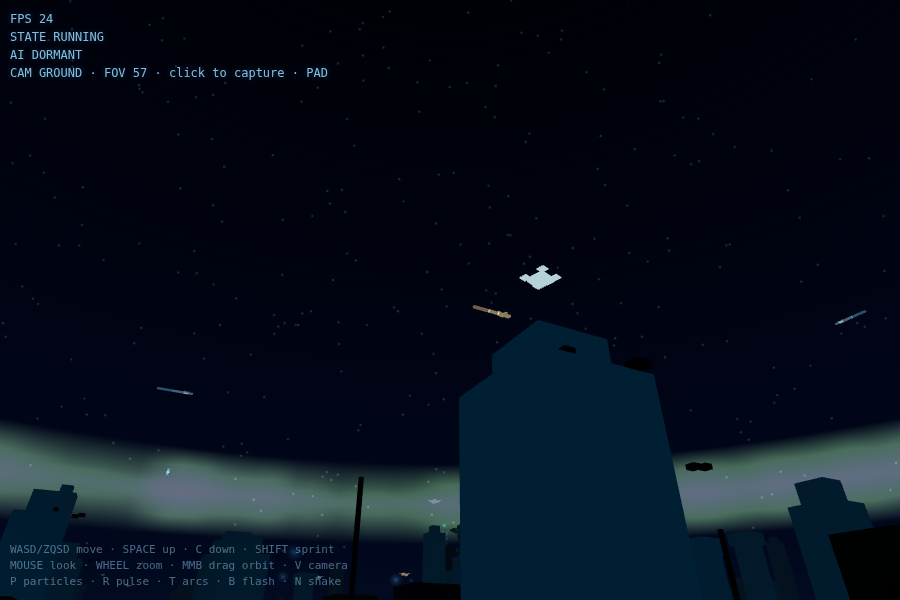
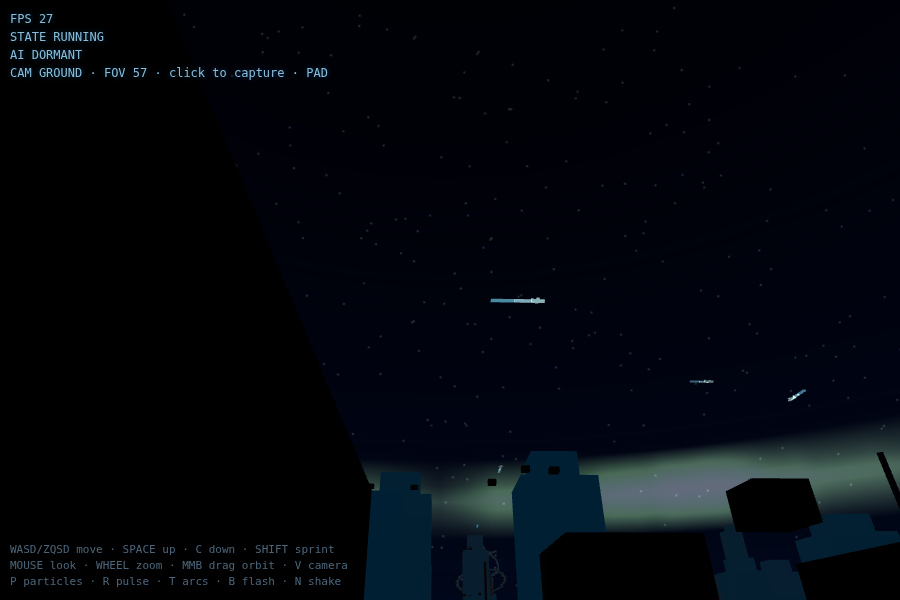
M8.2: fog depth tune + zone-tinted haze — tuned FogExp2 density (readable at 500 m) + fog color lerp cyan core → warm outer avenues (ATMOS, pre-allocated, dome horizon sync, heap flat)

diff --git a/index.html b/index.html
@@ -192,8 +192,7 @@ const CFG = {
   bootWatchdogMs: 15000,
   color: {
     void: 0x05070d,        // M0/M1 empty-void background
-    fog: 0x060a14,
-    fogDensity: 0.004,
+    fog: 0x060a14,        // initial haze (ATMOS re-tints it per zone, M8.2)
   },
   input: {
     lookSens: 0.0022,          // radians per mouse pixel
@@ -433,6 +432,23 @@ const CFG = {
       opacity: 0.45,        // faint (texture alpha fades it further)
       spin: 0.012,           // rad/s — slow drift
     },
+
+    /* ---- M8.2: fog depth tune + zone-tinted haze ----
+     * density: tuned down from 0.004 — at 500 m the FogExp2 factor is
+     *   ≈ 0.86, so distant structures survive as readable silhouettes
+     *   (the old 0.004 swallowed 98 % at 500 m: the void took over).
+     * zone: the haze color lerps (smoothstep) by camera distance from
+     *   the central plaza across the M3 zone boundaries (core < 220 m
+     *   / mid < 520 m): cyan in the core, warm in the outer avenues.
+     * domeTint: subtle sync of the dome horizon tint so sky and haze
+     *   never disagree (material color multiplies the gradient map). */
+    fog: {
+      density: 0.0028,
+      zone: { core: 220, outer: 520 },   // m — M3 zone boundaries
+      core: 0x081726,                    // cyan haze (core)
+      outer: 0x241a10,                   // warm haze (outer avenues)
+      domeTint: { core: 0xd9e6ff, outer: 0xffe3d0 },
+    },
   },
 };
 
@@ -539,7 +555,7 @@ renderer.info.autoReset = false;
 
 const scene = new THREE.Scene();
 scene.background = new THREE.Color(CFG.color.void);
-scene.fog = new THREE.FogExp2(CFG.color.fog, CFG.color.fogDensity);
+scene.fog = new THREE.FogExp2(CFG.color.fog, CFG.atmos.fog.density);
 
 const camera = new THREE.PerspectiveCamera(
   60,
@@ -4510,6 +4526,11 @@ const ENTITY = {
  * - aurora: one open-ended additive cylinder band at fixed altitude
  *   with slow spin — faint green curtains (static canvas texture).
  * - exactly 3 draw calls total, zero per-frame allocation.
+ * - fog (M8.2): tuned FogExp2 depth (readable at 500 m) + zone-tinted
+ *   haze — scene.fog.color smoothstep-lerps cyan (core) → warm (outer
+ *   avenues) by camera distance from the plaza across the M3 zone
+ *   boundaries; the dome horizon tint syncs so sky and haze match.
+ *   All fog colors pre-allocated in init ⇒ zero per-frame allocation.
  * ==================================================================== */
 const ATMOS = {
   name: 'ATMOS',
@@ -4521,6 +4542,17 @@ const ATMOS = {
   init() {
     const A = CFG.atmos;
     ATMOS.root = new THREE.Group();
+
+    /* M8.2: zone-tinted haze — pre-allocated fog colors (zero per-frame
+     * allocation); the scene fog color lerps cyan (core) → warm (outer
+     * avenues) with camera distance from the plaza and the dome
+     * horizon tint syncs so sky and haze match. */
+    const F = CFG.atmos.fog;
+    ATMOS._fogCore = new THREE.Color(F.core);
+    ATMOS._fogOuter = new THREE.Color(F.outer);
+    ATMOS._fog = new THREE.Color(F.core);
+    ATMOS._tintCore = new THREE.Color(F.domeTint.core);
+    ATMOS._tintOuter = new THREE.Color(F.domeTint.outer);
 
     /* dome: vertical gradient — canvas top (v = 1) is the zenith,
      * v = 0.5 is the horizon (where the fog-tinted city sits), below
@@ -4648,6 +4680,21 @@ const ATMOS = {
     ATMOS.aurora.rotation.y = t * A.aurora.spin;
     /* tier cap: drawRange only (no allocation) */
     ATMOS.stars.geometry.setDrawRange(0, A.stars.tiers[TIER.active()]);
+
+    /* M8.2: zone-tinted haze — smoothstep the fog color across the M3
+     * zone boundaries by camera distance from the plaza (cyan core →
+     * warm outer avenues) and sync the dome horizon tint. No
+     * allocation: every color is pre-allocated in init. */
+    {
+      const F = A.fog;
+      const d = Math.hypot(camera.position.x, camera.position.z);
+      let s = (d - F.zone.core) / (F.zone.outer - F.zone.core);
+      s = s < 0 ? 0 : s > 1 ? 1 : s;
+      const k = s * s * (3 - 2 * s);
+      ATMOS._fog.copy(ATMOS._fogCore).lerp(ATMOS._fogOuter, k);
+      scene.fog.color.copy(ATMOS._fog);
+      ATMOS.dome.material.color.copy(ATMOS._tintCore).lerp(ATMOS._tintOuter, k);
+    }
   },
 
   dispose() {

diff --git a/PLAN.md b/PLAN.md
@@ -61,7 +61,7 @@ smoke-test evidence.
 | **M7.4** ✅ | Screen-space flash: overlay-scene additive plane (or DOM div) driven by `FX.flash(intensity)` | Manual key flashes screen; decays to zero; costs nothing idle |
 | **M7.5** ✅ | Camera shake: impulse-decay system consumed by `CAMERA` | Manual key shakes camera with clean decay to still; never accumulates |
 | **M8.1** ✅ | Night sky: gradient sky dome (big sphere, canvas/shader texture), stars, faint aurora band | Night mood readable from street level; dome correct from street, orbit, and far fly |
-| **M8.2** | Fog depth tune + zone-tinted haze (cyan core / warm avenues) via fog color lerp | Depth readable at 500 m; zone tint visible flying across zones |
+| **M8.2** ✅ | Fog depth tune + zone-tinted haze (cyan core / warm avenues) via fog color lerp | Depth readable at 500 m; zone tint visible flying across zones |
 | **M8.3** | Volumetric-ish light shafts: a few additive cone/cylinder meshes from key spires + creature core (only when near / during awakening) | Shafts visible near spire, absent far away (no permanent draw calls) |
 | **M8.4** | Distant lightning: random far point + brief hemi bump + flash + EM discharge ring across the city | Lightning event visible from inside the city; fires on timer + manual key |
 | **M9.1** | Idle/dormant animation: tensor-ring rotation, antenna sway, breathing core, periodic "dream" LED wave across the node grid (instance-color waves) | Dream wave sweeps the node grid visibly; dormant state stays dim and still-ish |
@@ -475,11 +475,35 @@ nothing while idle.
   {street,orbit,far}.png`.
 
 #### M8.2 — Fog depth + zone tint
-- [ ] Fog tuned for depth; haze tinted by zone (cyan core / warm avenues)
+- [x] Fog tuned for depth; haze tinted by zone (cyan core / warm avenues)
       via fog color lerp.
 - **Test:** depth readable at 500 m; zone tint visible while flying
       across zones.
 - **Commit when:** both verified on screen.
+- **Verified:** smoke M8.2 section green — fog depth tuned (FogExp2
+  ρ 0.004 → 0.0028 in `CFG.atmos.fog.density`: analytic factor
+  f(100 m) = 7.5 % ⇒ street range clear, f(500 m) = 85.9 % ⇒ distant
+  structures survive as readable silhouettes instead of the old 98 %
+  swallow); zone-tinted haze in `ATMOS.update` — `scene.fog.color`
+  smoothstep-lerps by camera XZ distance from the plaza across the M3
+  zone boundaries (220/520 m): cyan core `0x081726` → warm outer
+  avenues `0x241a10`, all colors pre-allocated at init (heap flat,
+  zero per-frame allocation); dome horizon tint syncs so sky and haze
+  never disagree (cool in the core, warm outside); analytic zone check
+  (fog color at core/mid/outer poses: cyan-dominant → warm-dominant,
+  mid-zone exactly the lerp midpoint at k = 0.5); visual gates:
+  500 m fog-on/fog-off screenshot pair — city region keeps a solid
+  share of mean luminance and edge detail through the haze
+  (`shots/m82-fog-500m.png`), zone tint visible flying across zones —
+  city-region warmth (mean R − mean B) core −21.8 → outer −1.0
+  (`shots/m82-fog-{core,outer}.png`); fog-off reference uses density 0
+  (nulling `scene.fog` would throw in ATMOS and disable the subsystem)
+  with a no-disabled-subsystems assert. Note: the pre-existing
+  timing-sensitive smoke checks (M6.2 heap-flat, M6.3 fleet growth,
+  M7.5 key-N shake) flake in this headless environment (rAF timing /
+  GC noise) — baseline runs at the pre-M8.2 HEAD failed the M6.3
+  fleet check, the M6.2 heap flake is documented since M7.4/M7.5, and
+  both pass on other runs; environmental, not M8.2 regressions.
 
 #### M8.3 — Light shafts
 - [ ] A few additive cone/cylinder meshes from key spires and the

diff --git a/brain/pages/m82-fog-zone-tint.md b/brain/pages/m82-fog-zone-tint.md
@@ -1,0 +1,35 @@
+---
+id: m82-fog-zone-tint
+title: "M8.2 fog depth tune + zone-tinted haze: tuned FogExp2 density + cyan-core/warm-avenues fog color lerp in ATMOS"
+category: decision
+status: active
+tags: [m8, atmos, fog, haze, zone]
+created: "2026-09-16T04:21:26"
+updated: "2026-09-16T04:22:11"
+---
+
+<!-- compiled_truth -->
+## Decided
+
+- M8.2 tunes the scene `FogExp2` depth and adds zone-tinted haze, both owned by `ATMOS` (no new system). All tunables live in `CFG.atmos.fog`:
+  - **Depth tune** — `density: 0.0028` (moved out of `CFG.color.fogDensity`, which was 0.004). Analytic FogExp2 factor `1 − exp(−(ρ·d)²)`: f(100 m) = 7.5 % (street range clear), f(500 m) = 85.9 % — distant structures survive as readable silhouettes (the old 0.004 swallowed 98.2 % at 500 m: the void took over). `scene.fog` is still created once at boot (`new THREE.FogExp2(CFG.color.fog, CFG.atmos.fog.density)`); `CFG.color.fog` is only the boot color.
+  - **Zone-tinted haze** — `ATMOS.update` lerps `scene.fog.color` every frame: smoothstep on camera XZ distance from the central plaza across the M3 zone boundaries (`zone: { core: 220, outer: 520 }` m): cyan core `0x081726` → warm outer avenues `0x241a10`. All fog colors are pre-allocated in `ATMOS.init` (`_fogCore/_fogOuter/_fog`, `_tintCore/_tintOuter`) ⇒ zero per-frame allocation.
+  - **Dome horizon tint sync** — `ATMOS.dome.material.color` lerps between `domeTint: { core: 0xd9e6ff, outer: 0xffe3d0 }` so the sky horizon matches the haze (material color multiplies the gradient map; the M8.1 canvas texture is untouched).
+- The zone lerp is camera-relative (not per-pixel): standing in the core the whole scene haze is cyan; flying out past 520 m it is warm. That is the intended "zone tint visible flying across zones" behavior.
+- Smoke M8.2 section (smoke/smoke.mjs): analytic checks — fog factor bounds at 100/500 m, fog color at core/mid/outer poses (cyan-dominant → warm-dominant, mid-zone exactly the lerp midpoint at k = 0.5), dome tint sync; visual gates — 500 m fog-on/fog-off screenshot pair (city-region mean luminance + horizontal edge detail survive the haze), core/outer zone shots (city-region warmth = mean R − mean B measurably higher in the outer zone). Shots: `smoke/shots/m82-fog-{500m,core,outer}.png`.
+- Harness trap: the fog-off reference shot must use `scene.fog.density = 0`, NOT `scene.fog = null` — `ATMOS.update` reads `scene.fog.color` every frame, and a null fog throws inside the frame loop's per-subsystem try/catch, which **silently disables the subsystem** (`s.update = null`) and shows the HUD "Subsystem disabled" banner; the smoke "zero uncaught page errors" check does NOT catch this (the error is caught), so the M8.2 section asserts `systems.every(s => s.update !== null)` after touching `scene.fog`.
+
+
+## Timeline
+
+- time: 2026-09-16T04:21:26
+  kind: decision
+  summary: "Created this page: M8.2 fog depth tune + zone-tinted haze: tuned FogExp2 density + cyan-core/warm-avenues fog color lerp in ATMOS"
+  source: M8.2 implementation
+  affects: [m82-fog-zone-tint]
+
+- time: 2026-09-16T04:22:11
+  kind: decision
+  summary: "M8.2 fog depth tune + zone-tinted haze: density 0.0028 in CFG.atmos.fog, fog color smoothstep lerp cyan core → warm outer avenues by plaza distance, dome horizon tint sync"
+  source: M8.2 implementation
+  affects: [m82-fog-zone-tint]

diff --git a/brain/index.md b/brain/index.md
@@ -1,6 +1,6 @@
 # Brain Index
 
-_Auto-generated. Last updated 2026-09-16T00:19:20.802Z._
+_Auto-generated. Last updated 2026-09-16T01:22:11.635Z._
 
 - [entity-system-m5](pages/entity-system-m5.md) — category: decision | tags: [entity, m5, creature, instancing] | ENTITY is the 6th system in the fixed boot order (INPUT → CAMERA → KIT → WORLD → **ENTITY** → HUD), registered between WORLD and HUD in `ind
 - [m2-material-kit](pages/m2-material-kit.md) — category: decision | tags: [kit, materials, draw-calls, three] | M2's `KIT` system is the shared foundation every later visual milestone builds on:
@@ -14,6 +14,7 @@ _Auto-generated. Last updated 2026-09-16T00:19:20.802Z._
 - [m74-fx-flash](pages/m74-fx-flash.md) — category: decision | tags: [m7, fx, flash, overlay] | ## Decided
 - [m75-camera-shake](pages/m75-camera-shake.md) — category: decision | tags: [m7, fx, shake, camera] | ## Decided
 - [m81-night-sky](pages/m81-night-sky.md) — category: decision | tags: [m8, atmos, sky, night, aurora] | ## Decided
+- [m82-fog-zone-tint](pages/m82-fog-zone-tint.md) — category: decision | tags: [m8, atmos, fog, haze, zone] | ## Decided
 - [near-layer-detail-pass](pages/near-layer-detail-pass.md) — category: decision | tags: [m4, detail, instancing] | ## Decision
 - [pi-runner-plan-format](pages/pi-runner-plan-format.md) — category: decision | tags: [plan, pi-runner, formatting] | The `## Milestones` section of `PLAN.md` must use the same format as `.
 - [smoke-harness-dev-tooling](pages/smoke-harness-dev-tooling.md) — category: decision | tags: [testing, smoke, playwright, tooling] | The smoke harness lives in `smoke/` (dev tooling only, not part of the product): `node smoke/smoke.mjs [url]` serves the project root on :83
